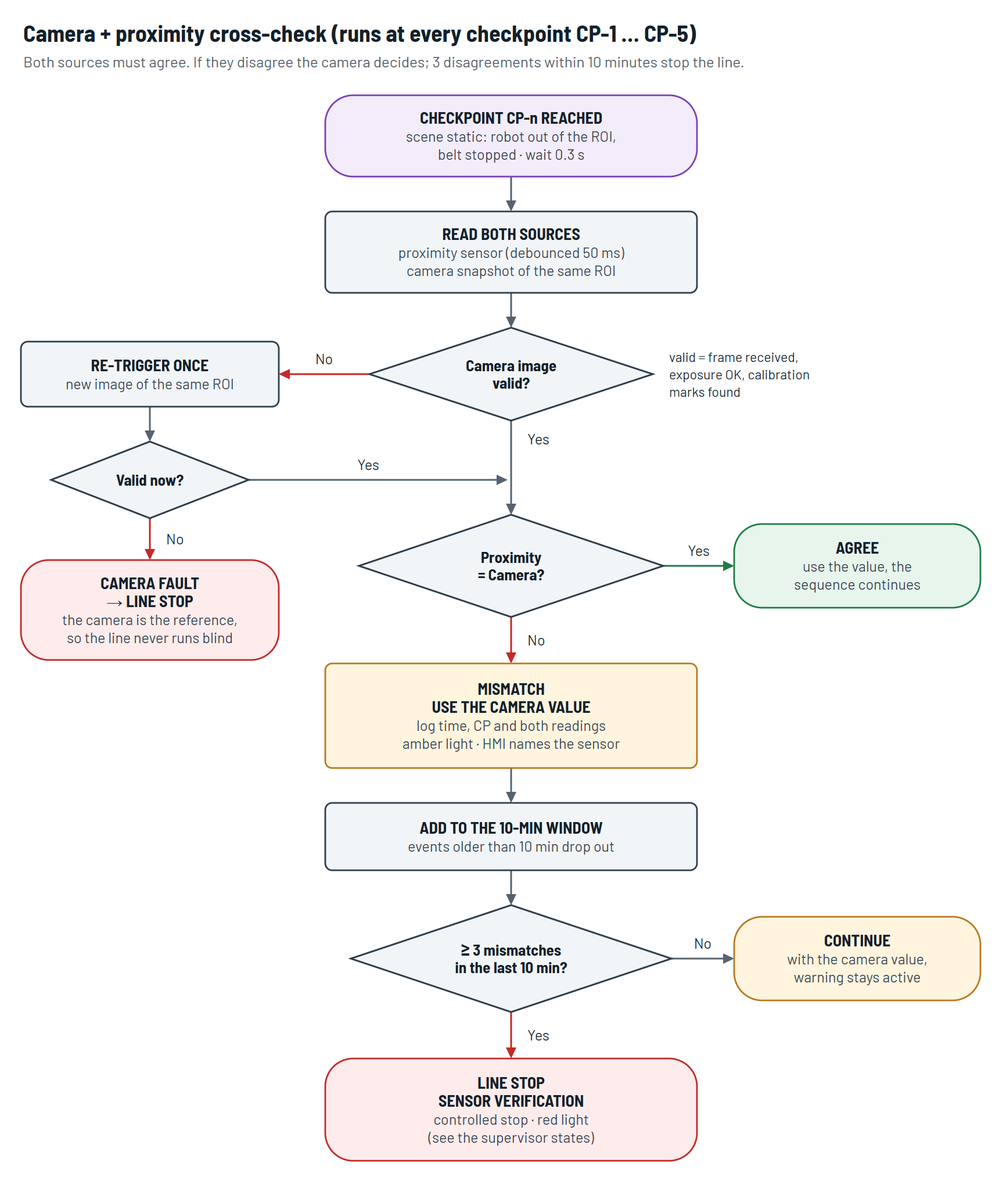
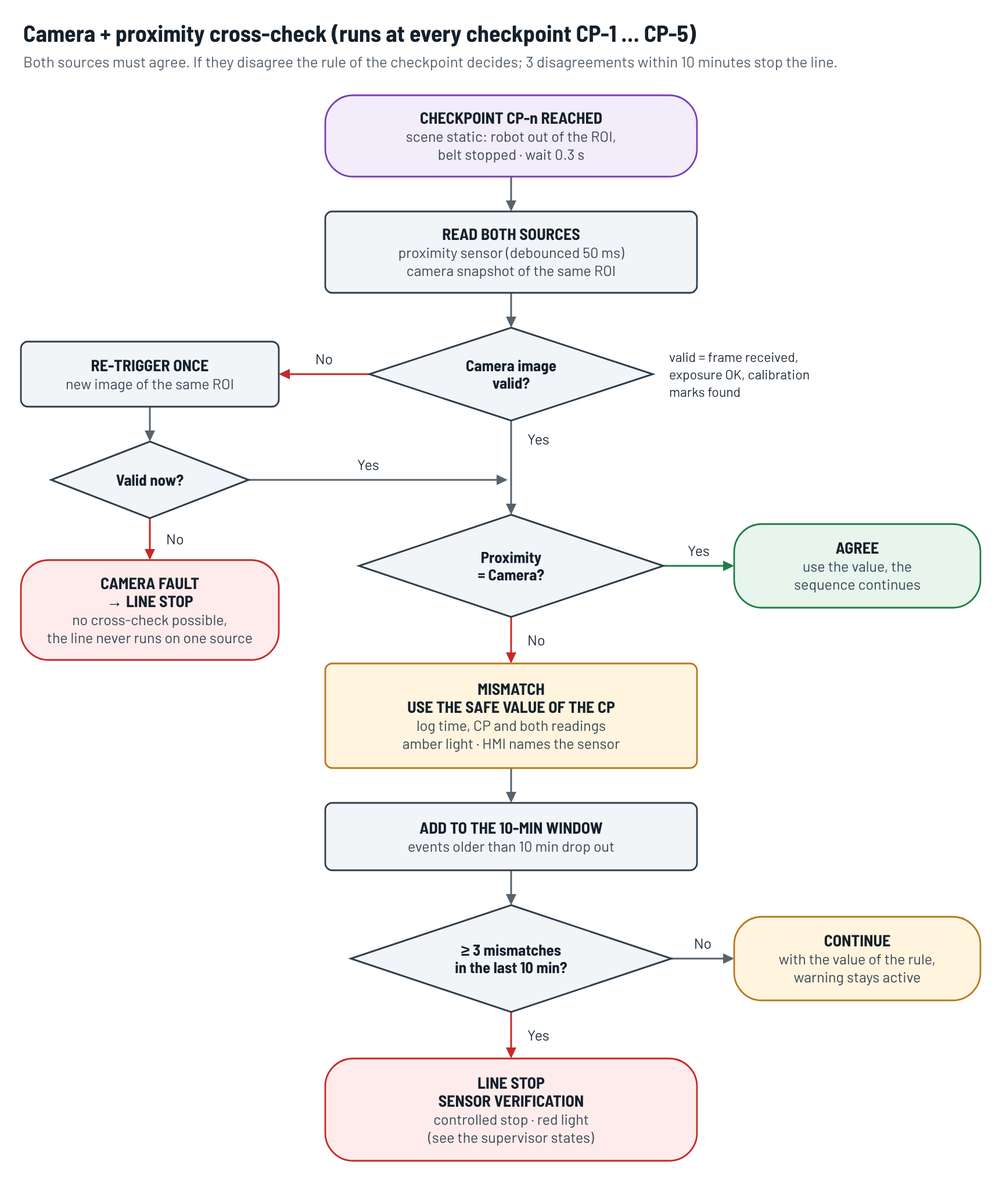
A2.1 decision applied: fusion rule per checkpoint and FAULT-recovery changes
Rules (author's decision, verification/camera_policy.md): CP-1 camera,
CP-2 absent, CP-3 absent, CP-4 absent, CP-5 present.

Recovery changes: a repeated state no longer repeats a part move that was
already done (B7 pre-check and place when GR-21B, E2 pick when !GR-51, E3
gauge load when GR-51); the conveyor start-up checks repeat until clear.

Texts that said 'the camera decides' (model, figures 3, 4, 7, simulator
HMI) now refer to the rule of the checkpoint. The run list of the
verifier is defined once (cell-verify.js RUNS) and gains camwrong and
sensor_camwrong. Verification results, .smv files, regression reference
and PROJECT_STATUS.md follow in the next commit.

Claude-Session: https://claude.ai/code/session_01S9s8cwibQEUxzo5TStFFTC

diff --git a/simulation/index.html b/simulation/index.html
@@ -405,7 +405,7 @@ footer { color: var(--muted); font-size: 12.5px; text-align: center; padding-top
           <div class="wl"><span>Mismatches in the last 10 min: <b id="winCount">0 / 3</b></span><span>3 within 10 min → line stop</span></div>
           <div class="wbar" id="wbar"></div>
         </div>
-        <p class="rule">The camera and the proximity sensor must agree. If they disagree the camera value is used and the mismatch is logged. <em>Glitch</em> = one false reading. <em>Fault</em> = dirty or misaligned sensor that keeps missing the part.</p>
+        <p class="rule">The camera and the proximity sensor must agree. If they disagree the rule of the checkpoint gives the value (CP-1: camera; CP-2, CP-3, CP-4: absent; CP-5: present) and the mismatch is logged. <em>Glitch</em> = one false reading. <em>Fault</em> = dirty or misaligned sensor that keeps missing the part.</p>
       </div>
     </div>
   </section>
@@ -517,13 +517,15 @@ footer { color: var(--muted); font-size: 12.5px; text-align: center; padding-top
   // ---------------------------------------------------------------- checkpoints
   // rule: the value used when the proximity sensor and the camera disagree (the mismatch is counted
   // in every case): camera | prox | present | absent (that value) | ask (line stop, the operator
-  // looks and the check is repeated). Being decided in step A2.1 (PROJECT_STATUS.md §15).
+  // looks and the check is repeated). Decided in step A2.1 (2026-10-28, verification/camera_policy.md):
+  // where a wrong answer can cause damage the safe value is used (CP-4 pallet absent, CP-5 nest
+  // occupied); elsewhere the cheapest safe rule.
   const CHECKPOINTS = [
     { id: 'CP-1', where: 'Input pallet', prox: 'PX-11', cam: 'CAM-1', roi: 'ROI-A', fact: 'Input pallet present and seated', rule: 'camera' },
-    { id: 'CP-2', where: 'Conveyor entry', prox: 'PE-41', cam: 'CAM-1', roi: 'ROI-B', fact: 'Part at conveyor entry', rule: 'camera' },
-    { id: 'CP-3', where: 'Conveyor exit', prox: 'PE-42', cam: 'CAM-2', roi: 'ROI-C', fact: 'Part at the end stop', rule: 'camera' },
-    { id: 'CP-4', where: 'Output pallet', prox: 'PX-52', cam: 'CAM-2', roi: 'ROI-D', fact: 'Output pallet present', rule: 'camera' },
-    { id: 'CP-5', where: 'Gauge nest', prox: 'PX-64', cam: 'CAM-2', roi: 'ROI-E', fact: 'Part in gauge nest', rule: 'camera' },
+    { id: 'CP-2', where: 'Conveyor entry', prox: 'PE-41', cam: 'CAM-1', roi: 'ROI-B', fact: 'Part at conveyor entry', rule: 'absent' },
+    { id: 'CP-3', where: 'Conveyor exit', prox: 'PE-42', cam: 'CAM-2', roi: 'ROI-C', fact: 'Part at the end stop', rule: 'absent' },
+    { id: 'CP-4', where: 'Output pallet', prox: 'PX-52', cam: 'CAM-2', roi: 'ROI-D', fact: 'Output pallet present', rule: 'absent' },
+    { id: 'CP-5', where: 'Gauge nest', prox: 'PX-64', cam: 'CAM-2', roi: 'ROI-E', fact: 'Part in gauge nest', rule: 'present' },
   ];
 
   // ---------------------------------------------------------------- sensors / signals
@@ -665,7 +667,8 @@ footer { color: var(--muted); font-size: 12.5px; text-align: center; padding-top
   // value ({TAG} sensor, [CP-n] checkpoint, *bold*). kind tells where the value comes from:
   //   sensor   a device signal; the simulation reads its plant, the verifier an abstract plant
   //   check    fused result of the last camera + proximity check made by the machine that reads it
-  //            (the camera decides; one machine never reads another machine's check)
+  //            (the rule of the checkpoint decides when they disagree; one machine never reads
+  //            another machine's check)
   //   var      PLC variable written by the steps of the machines
   //   input    operator or technician input (HMI button)
   //   derived  defined by an expression over other names (def)
@@ -839,7 +842,8 @@ footer { color: var(--muted); font-size: 12.5px; text-align: center; padding-top
   //   at a transition (then the pending state follows), while waiting (then the state is entered
   //   again), or at once after a camera fault (then the same check is repeated). F is entered when a
   //   confirmation is missing or a timer expires; after `exit` (the operator clears it) the state
-  //   is repeated.
+  //   is repeated. Therefore a step that moves a part carries a `when` on the gripper (GR-21B, GR-51)
+  //   so that repeating the state never repeats a place, pick or load that was already done (A2.1).
   //   view: diagram layout only (main column order, side states next to an anchor, or a grid).
   const HOLD_NOTE = [
     '*F FAULT* and *H HOLD* can be entered from any state. FAULT = a confirmation is missing or a timeout',
@@ -869,7 +873,7 @@ footer { color: var(--muted); font-size: 12.5px; text-align: center; padding-top
   const PICK_CONV = {
     name: 'PICK FROM CONVEYOR', short: 'pick',
     desc: ['Move to the {CAM-2} pick pose · grip ·', 'lift · retract · [CP-3] exit clear'],
-    do: [{ job: 'R2.pickConv' }, { check: 'CP-3', quick: true }, { set: { partPicked: true, pickAllowed: false }, when: 'GR-51 & !CP-3' }],
+    do: [{ job: 'R2.pickConv', when: '!GR-51' }, { check: 'CP-3', quick: true }, { set: { partPicked: true, pickAllowed: false }, when: 'GR-51 & !CP-3' }],
   };
 
   const MACHINES = {
@@ -911,8 +915,8 @@ footer { color: var(--muted); font-size: 12.5px; text-align: center; padding-top
         Q_B6: { choice: 'GR-21B', yes: 'B7', no: 'B1', yesText: 'finished part in B', noText: 'first cycle, B is empty' },
         B7: { name: 'PLACE ON CONVEYOR (B)', band: 'run', short: 'to belt',
           desc: ['Wait for {ENC-43} = 0 and [CP-2] entry clear', '· place the finished part · release'],
-          do: [{ job: 'R1.toConveyorB' }, { await: 'BELT.free' }, { check: 'CP-2', quick: true, confirm: '!CP-2' },
-            { job: 'R1.placeConvB' }, { check: 'CP-2' }, { set: { partPlaced: true }, when: 'CP-2' }],
+          do: [{ job: 'R1.toConveyorB' }, { await: 'BELT.free' }, { check: 'CP-2', quick: true, confirm: '!CP-2', when: 'GR-21B' },
+            { job: 'R1.placeConvB', when: 'GR-21B' }, { check: 'CP-2' }, { set: { partPlaced: true }, when: 'CP-2' }],
           next: [{ to: 'B1', when: 'CP-2 & R1.clearConv' }] },
         W1: W1('B1'),
       },
@@ -922,12 +926,12 @@ footer { color: var(--muted); font-size: 12.5px; text-align: center; padding-top
       slot: 'CONV', setup: 0,
       title: 'State diagram: Conveyor',
       sub: 'Robots pick or place at the belt only when it is stopped ({ENC-43} = 0); the belt starts only when both robots are clear.',
-      initial: { to: 'C1', do: [{ check: 'CP-2', quick: true }, { check: 'CP-3', quick: true }], when: '!CP-2 & !CP-3', text: 'Start-up:' },
+      initial: { to: 'C1', do: [{ check: 'CP-2', quick: true, until: '!CP-2' }, { check: 'CP-3', quick: true, until: '!CP-3' }], when: '!CP-2 & !CP-3', text: 'Start-up:' },
       hold: { desc: ['A running transport finishes at', 'the stop; no new transport starts'], exit: '!HOLD.req' },
       fault: { desc: ['Missing confirmation or a', 'transport timer expired (belt /', 'drive fault, jam, lost part)'], exit: 'HMI.clear' },
       note: [
         '*Stop logic:* stopping uses *OR* ({PE-42} or {CAM-2}) because stopping is the safe direction;',
-        'confirming the part for the pick uses the cross-check [CP-3] (both must agree, otherwise the camera decides).',
+        'confirming the part for the pick uses the cross-check [CP-3] (if they disagree: no part, the pick waits).',
       ],
       view: { main: ['C1', 'C2', 'C3', 'C4', 'C5'] },
       states: {
@@ -975,7 +979,7 @@ footer { color: var(--muted); font-size: 12.5px; text-align: center; padding-top
         E2: Object.assign({}, PICK_CONV, { next: [{ to: 'E3', when: 'GR-51 & !CP-3 & R2.clearConv' }] }),
         E3: { name: 'LOAD GAUGE', short: 'gauge',
           desc: ['Place in the corner nest · push against the', '3 datums (force control) · release · retract'],
-          do: [{ job: 'R2.loadGauge' }, { check: 'CP-5' }],
+          do: [{ job: 'R2.loadGauge', when: 'GR-51' }, { check: 'CP-5' }],
           next: [{ to: 'E4', when: 'CP-5 & R2.clearGauge' }] },
         E4: { name: 'MEASURE L, W, H', short: 'measure',
           desc: ['{LS-61}/{LS-62}/{LS-63}: average of 10 samples', 'size = 50.000 + (d master − d part)'],
@@ -1005,7 +1009,7 @@ footer { color: var(--muted); font-size: 12.5px; text-align: center; padding-top
       states: {
         X1: { name: 'NORMAL', kind: 'ok', wait: true, desc: ['All checkpoints agree', 'stack light {LT-01} green'],
           next: [{ to: 'X3', when: 'CAM_FAULT' }, { to: 'X2', when: 'mismatches>0' }] },
-        X2: { name: 'MISMATCH WARNING', kind: 'warn', wait: true, desc: ['1–2 mismatches in the last 10 min', 'camera value used · amber flashing'],
+        X2: { name: 'MISMATCH WARNING', kind: 'warn', wait: true, desc: ['1–2 mismatches in the last 10 min', 'rule of the CP used · amber flashing'],
           next: [{ to: 'X3', when: 'mismatches>=limit | CAM_FAULT' }, { to: 'X1', when: 'mismatches=0' }] },
         X3: { name: 'LINE STOP', kind: 'stop', wait: true, desc: ['Controlled stop: robots finish the step', 'and park, belt stops · red light'],
           log: 'LINE STOP: controlled stop · the CNC finishes its part, the robots finish the step and park, no new transport',
@@ -1870,7 +1874,7 @@ footer { color: var(--muted); font-size: 12.5px; text-align: center; padding-top
   // ------------------------------------------------------------------ Cross-check flowchart
   function flowCrossCheck(o) {
     const d = new Diagram(860, 0, 'Camera + proximity cross-check (runs at every checkpoint CP-1 … CP-5)',
-      'Both sources must agree. If they disagree the camera decides; 3 disagreements within 10 minutes stop the line.', o);
+      'Both sources must agree. If they disagree the rule of the checkpoint decides; 3 disagreements within 10 minutes stop the line.', o);
     const t = d.top;
     const LX = 18, LW = 222, LC = LX + LW / 2;
     const MX = 280, MW = 320, MC = MX + MW / 2;
@@ -1885,20 +1889,20 @@ footer { color: var(--muted); font-size: 12.5px; text-align: center; padding-top
     d.arrow([[q1.left, q1.cy], [r1.right, q1.cy]], ['No'], { at: [(q1.left + r1.right) / 2, q1.cy - 13], kind: 'fault' });
     const q1b = d.choice('Q1B', LC, r1.bottom + 30 + 33, 170, 66, ['Valid now?']);
     d.arrow([[LC, r1.bottom], [LC, q1b.top]]);
-    const cf = d.node('CF', LX, q1b.bottom + 36, LW, 86, ['CAMERA FAULT', '→ LINE STOP', 'the camera is the reference,', 'so the line never runs blind'], { shape: 'term', kind: 'stop', titleLines: 2 });
+    const cf = d.node('CF', LX, q1b.bottom + 36, LW, 86, ['CAMERA FAULT', '→ LINE STOP', 'no cross-check possible,', 'the line never runs on one source'], { shape: 'term', kind: 'stop', titleLines: 2 });
     d.arrow([[LC, q1b.bottom], [LC, cf.top]], ['No'], { at: [LC + 14, (q1b.bottom + cf.top) / 2], anchor: 'start', kind: 'fault' });
     const q2 = d.choice('Q2', MC, q1b.cy + 30 + 44, 262, 88, ['Proximity', '= Camera?']);
     d.arrow([[MC, q1.bottom], [MC, q2.top]], ['Yes'], { at: [MC + 14, q1.bottom + 16], anchor: 'start' });
     d.arrow([[q1b.right, q1b.cy], [MC - 3, q1b.cy]], ['Yes'], { at: [(q1b.right + MC) / 2 - 10, q1b.cy - 13] });
     const ag = d.node('AG', RX, q2.cy - 36, RW, 72, ['AGREE', 'use the value, the', 'sequence continues'], { shape: 'term', kind: 'ok' });
     d.arrow([[q2.right, q2.cy], [ag.left, q2.cy]], ['Yes'], { at: [(q2.right + ag.left) / 2, q2.cy - 13], kind: 'ok' });
-    const mm = d.node('MM', MX, q2.bottom + 40, MW, 90, ['MISMATCH', 'USE THE CAMERA VALUE', 'log time, CP and both readings', 'amber light · HMI names the sensor'], { kind: 'warn', titleLines: 2 });
+    const mm = d.node('MM', MX, q2.bottom + 40, MW, 90, ['MISMATCH', 'USE THE SAFE VALUE OF THE CP', 'log time, CP and both readings', 'amber light · HMI names the sensor'], { kind: 'warn', titleLines: 2 });
     d.arrow([[MC, q2.bottom], [MC, mm.top]], ['No'], { at: [MC + 14, (q2.bottom + mm.top) / 2], anchor: 'start', kind: 'fault' });
     const wn = d.node('WN', MX, mm.bottom + 30, MW, 58, ['ADD TO THE 10-MIN WINDOW', 'events older than 10 min drop out']);
     d.arrow([[MC, mm.bottom], [MC, wn.top]]);
     const q3 = d.choice('Q3', MC, wn.bottom + 30 + 46, 276, 92, ['≥ 3 mismatches', 'in the last 10 min?']);
     d.arrow([[MC, wn.bottom], [MC, q3.top]]);
-    const cn = d.node('CN', RX, q3.cy - 36, RW, 72, ['CONTINUE', 'with the camera value,', 'warning stays active'], { shape: 'term', kind: 'warn' });
+    const cn = d.node('CN', RX, q3.cy - 36, RW, 72, ['CONTINUE', 'with the value of the rule,', 'warning stays active'], { shape: 'term', kind: 'warn' });
     d.arrow([[q3.right, q3.cy], [cn.left, q3.cy]], ['No'], { at: [(q3.right + cn.left) / 2, q3.cy - 13] });
     const ls = d.node('LS', MX, q3.bottom + 40, MW, 88, ['LINE STOP', 'SENSOR VERIFICATION', 'controlled stop · red light', '(see the supervisor states)'], { shape: 'term', kind: 'stop', titleLines: 2 });
     d.arrow([[MC, q3.bottom], [MC, ls.top]], ['Yes'], { at: [MC + 14, (q3.bottom + ls.top) / 2], anchor: 'start', kind: 'fault' });
@@ -3293,7 +3297,7 @@ footer { color: var(--muted); font-size: 12.5px; text-align: center; padding-top
       key = 'qh'; title = 'Quality hold · 2 NOK parts in a row'; text = 'The CNC finished its part and will not start a new cycle. Check tool wear and work offsets, then release the hold.'; cls = 'warn';
       acts = [['Tool and offsets checked · release', 'qh', 'warn']];
     } else if (SUP.events.length) {
-      key = 'mm:' + SUP.events.length; title = `Sensor mismatch warning · ${SUP.events.length} of ${RU.mismatchLimit} in 10 min`; text = `Disagreements: ${windowSummary()}. The camera value is used and the line keeps running. A ${RU.mismatchLimit}rd mismatch within 10 minutes stops the line.`; cls = 'warn';
+      key = 'mm:' + SUP.events.length; title = `Sensor mismatch warning · ${SUP.events.length} of ${RU.mismatchLimit} in 10 min`; text = `Disagreements: ${windowSummary()}. The rule of each checkpoint gives the value used and the line keeps running. A ${RU.mismatchLimit}rd mismatch within 10 minutes stops the line.`; cls = 'warn';
     } else {
       const s = activeHmi('swap') || activeHmi('load');
       if (s) {

diff --git a/source/src/cell-model.js b/source/src/cell-model.js
@@ -53,13 +53,15 @@
   // ---------------------------------------------------------------- checkpoints
   // rule: the value used when the proximity sensor and the camera disagree (the mismatch is counted
   // in every case): camera | prox | present | absent (that value) | ask (line stop, the operator
-  // looks and the check is repeated). Being decided in step A2.1 (PROJECT_STATUS.md §15).
+  // looks and the check is repeated). Decided in step A2.1 (2026-10-28, verification/camera_policy.md):
+  // where a wrong answer can cause damage the safe value is used (CP-4 pallet absent, CP-5 nest
+  // occupied); elsewhere the cheapest safe rule.
   const CHECKPOINTS = [
     { id: 'CP-1', where: 'Input pallet', prox: 'PX-11', cam: 'CAM-1', roi: 'ROI-A', fact: 'Input pallet present and seated', rule: 'camera' },
-    { id: 'CP-2', where: 'Conveyor entry', prox: 'PE-41', cam: 'CAM-1', roi: 'ROI-B', fact: 'Part at conveyor entry', rule: 'camera' },
-    { id: 'CP-3', where: 'Conveyor exit', prox: 'PE-42', cam: 'CAM-2', roi: 'ROI-C', fact: 'Part at the end stop', rule: 'camera' },
-    { id: 'CP-4', where: 'Output pallet', prox: 'PX-52', cam: 'CAM-2', roi: 'ROI-D', fact: 'Output pallet present', rule: 'camera' },
-    { id: 'CP-5', where: 'Gauge nest', prox: 'PX-64', cam: 'CAM-2', roi: 'ROI-E', fact: 'Part in gauge nest', rule: 'camera' },
+    { id: 'CP-2', where: 'Conveyor entry', prox: 'PE-41', cam: 'CAM-1', roi: 'ROI-B', fact: 'Part at conveyor entry', rule: 'absent' },
+    { id: 'CP-3', where: 'Conveyor exit', prox: 'PE-42', cam: 'CAM-2', roi: 'ROI-C', fact: 'Part at the end stop', rule: 'absent' },
+    { id: 'CP-4', where: 'Output pallet', prox: 'PX-52', cam: 'CAM-2', roi: 'ROI-D', fact: 'Output pallet present', rule: 'absent' },
+    { id: 'CP-5', where: 'Gauge nest', prox: 'PX-64', cam: 'CAM-2', roi: 'ROI-E', fact: 'Part in gauge nest', rule: 'present' },
   ];
 
   // ---------------------------------------------------------------- sensors / signals
@@ -201,7 +203,8 @@
   // value ({TAG} sensor, [CP-n] checkpoint, *bold*). kind tells where the value comes from:
   //   sensor   a device signal; the simulation reads its plant, the verifier an abstract plant
   //   check    fused result of the last camera + proximity check made by the machine that reads it
-  //            (the camera decides; one machine never reads another machine's check)
+  //            (the rule of the checkpoint decides when they disagree; one machine never reads
+  //            another machine's check)
   //   var      PLC variable written by the steps of the machines
   //   input    operator or technician input (HMI button)
   //   derived  defined by an expression over other names (def)
@@ -375,7 +378,8 @@
   //   at a transition (then the pending state follows), while waiting (then the state is entered
   //   again), or at once after a camera fault (then the same check is repeated). F is entered when a
   //   confirmation is missing or a timer expires; after `exit` (the operator clears it) the state
-  //   is repeated.
+  //   is repeated. Therefore a step that moves a part carries a `when` on the gripper (GR-21B, GR-51)
+  //   so that repeating the state never repeats a place, pick or load that was already done (A2.1).
   //   view: diagram layout only (main column order, side states next to an anchor, or a grid).
   const HOLD_NOTE = [
     '*F FAULT* and *H HOLD* can be entered from any state. FAULT = a confirmation is missing or a timeout',
@@ -405,7 +409,7 @@
   const PICK_CONV = {
     name: 'PICK FROM CONVEYOR', short: 'pick',
     desc: ['Move to the {CAM-2} pick pose · grip ·', 'lift · retract · [CP-3] exit clear'],
-    do: [{ job: 'R2.pickConv' }, { check: 'CP-3', quick: true }, { set: { partPicked: true, pickAllowed: false }, when: 'GR-51 & !CP-3' }],
+    do: [{ job: 'R2.pickConv', when: '!GR-51' }, { check: 'CP-3', quick: true }, { set: { partPicked: true, pickAllowed: false }, when: 'GR-51 & !CP-3' }],
   };
 
   const MACHINES = {
@@ -447,8 +451,8 @@
         Q_B6: { choice: 'GR-21B', yes: 'B7', no: 'B1', yesText: 'finished part in B', noText: 'first cycle, B is empty' },
         B7: { name: 'PLACE ON CONVEYOR (B)', band: 'run', short: 'to belt',
           desc: ['Wait for {ENC-43} = 0 and [CP-2] entry clear', '· place the finished part · release'],
-          do: [{ job: 'R1.toConveyorB' }, { await: 'BELT.free' }, { check: 'CP-2', quick: true, confirm: '!CP-2' },
-            { job: 'R1.placeConvB' }, { check: 'CP-2' }, { set: { partPlaced: true }, when: 'CP-2' }],
+          do: [{ job: 'R1.toConveyorB' }, { await: 'BELT.free' }, { check: 'CP-2', quick: true, confirm: '!CP-2', when: 'GR-21B' },
+            { job: 'R1.placeConvB', when: 'GR-21B' }, { check: 'CP-2' }, { set: { partPlaced: true }, when: 'CP-2' }],
           next: [{ to: 'B1', when: 'CP-2 & R1.clearConv' }] },
         W1: W1('B1'),
       },
@@ -458,12 +462,12 @@
       slot: 'CONV', setup: 0,
       title: 'State diagram: Conveyor',
       sub: 'Robots pick or place at the belt only when it is stopped ({ENC-43} = 0); the belt starts only when both robots are clear.',
-      initial: { to: 'C1', do: [{ check: 'CP-2', quick: true }, { check: 'CP-3', quick: true }], when: '!CP-2 & !CP-3', text: 'Start-up:' },
+      initial: { to: 'C1', do: [{ check: 'CP-2', quick: true, until: '!CP-2' }, { check: 'CP-3', quick: true, until: '!CP-3' }], when: '!CP-2 & !CP-3', text: 'Start-up:' },
       hold: { desc: ['A running transport finishes at', 'the stop; no new transport starts'], exit: '!HOLD.req' },
       fault: { desc: ['Missing confirmation or a', 'transport timer expired (belt /', 'drive fault, jam, lost part)'], exit: 'HMI.clear' },
       note: [
         '*Stop logic:* stopping uses *OR* ({PE-42} or {CAM-2}) because stopping is the safe direction;',
-        'confirming the part for the pick uses the cross-check [CP-3] (both must agree, otherwise the camera decides).',
+        'confirming the part for the pick uses the cross-check [CP-3] (if they disagree: no part, the pick waits).',
       ],
       view: { main: ['C1', 'C2', 'C3', 'C4', 'C5'] },
       states: {
@@ -511,7 +515,7 @@
         E2: Object.assign({}, PICK_CONV, { next: [{ to: 'E3', when: 'GR-51 & !CP-3 & R2.clearConv' }] }),
         E3: { name: 'LOAD GAUGE', short: 'gauge',
           desc: ['Place in the corner nest · push against the', '3 datums (force control) · release · retract'],
-          do: [{ job: 'R2.loadGauge' }, { check: 'CP-5' }],
+          do: [{ job: 'R2.loadGauge', when: 'GR-51' }, { check: 'CP-5' }],
           next: [{ to: 'E4', when: 'CP-5 & R2.clearGauge' }] },
         E4: { name: 'MEASURE L, W, H', short: 'measure',
           desc: ['{LS-61}/{LS-62}/{LS-63}: average of 10 samples', 'size = 50.000 + (d master − d part)'],
@@ -541,7 +545,7 @@
       states: {
         X1: { name: 'NORMAL', kind: 'ok', wait: true, desc: ['All checkpoints agree', 'stack light {LT-01} green'],
           next: [{ to: 'X3', when: 'CAM_FAULT' }, { to: 'X2', when: 'mismatches>0' }] },
-        X2: { name: 'MISMATCH WARNING', kind: 'warn', wait: true, desc: ['1–2 mismatches in the last 10 min', 'camera value used · amber flashing'],
+        X2: { name: 'MISMATCH WARNING', kind: 'warn', wait: true, desc: ['1–2 mismatches in the last 10 min', 'rule of the CP used · amber flashing'],
           next: [{ to: 'X3', when: 'mismatches>=limit | CAM_FAULT' }, { to: 'X1', when: 'mismatches=0' }] },
         X3: { name: 'LINE STOP', kind: 'stop', wait: true, desc: ['Controlled stop: robots finish the step', 'and park, belt stops · red light'],
           log: 'LINE STOP: controlled stop · the CNC finishes its part, the robots finish the step and park, no new transport',

diff --git a/source/src/cell-diagrams.js b/source/src/cell-diagrams.js
@@ -568,7 +568,7 @@
   // ------------------------------------------------------------------ Cross-check flowchart
   function flowCrossCheck(o) {
     const d = new Diagram(860, 0, 'Camera + proximity cross-check (runs at every checkpoint CP-1 … CP-5)',
-      'Both sources must agree. If they disagree the camera decides; 3 disagreements within 10 minutes stop the line.', o);
+      'Both sources must agree. If they disagree the rule of the checkpoint decides; 3 disagreements within 10 minutes stop the line.', o);
     const t = d.top;
     const LX = 18, LW = 222, LC = LX + LW / 2;
     const MX = 280, MW = 320, MC = MX + MW / 2;
@@ -583,20 +583,20 @@
     d.arrow([[q1.left, q1.cy], [r1.right, q1.cy]], ['No'], { at: [(q1.left + r1.right) / 2, q1.cy - 13], kind: 'fault' });
     const q1b = d.choice('Q1B', LC, r1.bottom + 30 + 33, 170, 66, ['Valid now?']);
     d.arrow([[LC, r1.bottom], [LC, q1b.top]]);
-    const cf = d.node('CF', LX, q1b.bottom + 36, LW, 86, ['CAMERA FAULT', '→ LINE STOP', 'the camera is the reference,', 'so the line never runs blind'], { shape: 'term', kind: 'stop', titleLines: 2 });
+    const cf = d.node('CF', LX, q1b.bottom + 36, LW, 86, ['CAMERA FAULT', '→ LINE STOP', 'no cross-check possible,', 'the line never runs on one source'], { shape: 'term', kind: 'stop', titleLines: 2 });
     d.arrow([[LC, q1b.bottom], [LC, cf.top]], ['No'], { at: [LC + 14, (q1b.bottom + cf.top) / 2], anchor: 'start', kind: 'fault' });
     const q2 = d.choice('Q2', MC, q1b.cy + 30 + 44, 262, 88, ['Proximity', '= Camera?']);
     d.arrow([[MC, q1.bottom], [MC, q2.top]], ['Yes'], { at: [MC + 14, q1.bottom + 16], anchor: 'start' });
     d.arrow([[q1b.right, q1b.cy], [MC - 3, q1b.cy]], ['Yes'], { at: [(q1b.right + MC) / 2 - 10, q1b.cy - 13] });
     const ag = d.node('AG', RX, q2.cy - 36, RW, 72, ['AGREE', 'use the value, the', 'sequence continues'], { shape: 'term', kind: 'ok' });
     d.arrow([[q2.right, q2.cy], [ag.left, q2.cy]], ['Yes'], { at: [(q2.right + ag.left) / 2, q2.cy - 13], kind: 'ok' });
-    const mm = d.node('MM', MX, q2.bottom + 40, MW, 90, ['MISMATCH', 'USE THE CAMERA VALUE', 'log time, CP and both readings', 'amber light · HMI names the sensor'], { kind: 'warn', titleLines: 2 });
+    const mm = d.node('MM', MX, q2.bottom + 40, MW, 90, ['MISMATCH', 'USE THE VALUE OF THE CP RULE', 'log time, CP and both readings', 'amber light · HMI names the sensor'], { kind: 'warn', titleLines: 2 });
     d.arrow([[MC, q2.bottom], [MC, mm.top]], ['No'], { at: [MC + 14, (q2.bottom + mm.top) / 2], anchor: 'start', kind: 'fault' });
     const wn = d.node('WN', MX, mm.bottom + 30, MW, 58, ['ADD TO THE 10-MIN WINDOW', 'events older than 10 min drop out']);
     d.arrow([[MC, mm.bottom], [MC, wn.top]]);
     const q3 = d.choice('Q3', MC, wn.bottom + 30 + 46, 276, 92, ['≥ 3 mismatches', 'in the last 10 min?']);
     d.arrow([[MC, wn.bottom], [MC, q3.top]]);
-    const cn = d.node('CN', RX, q3.cy - 36, RW, 72, ['CONTINUE', 'with the camera value,', 'warning stays active'], { shape: 'term', kind: 'warn' });
+    const cn = d.node('CN', RX, q3.cy - 36, RW, 72, ['CONTINUE', 'with the value of the rule,', 'warning stays active'], { shape: 'term', kind: 'warn' });
     d.arrow([[q3.right, q3.cy], [cn.left, q3.cy]], ['No'], { at: [(q3.right + cn.left) / 2, q3.cy - 13] });
     const ls = d.node('LS', MX, q3.bottom + 40, MW, 88, ['LINE STOP', 'SENSOR VERIFICATION', 'controlled stop · red light', '(see the supervisor states)'], { shape: 'term', kind: 'stop', titleLines: 2 });
     d.arrow([[MC, q3.bottom], [MC, ls.top]], ['Yes'], { at: [MC + 14, (q3.bottom + ls.top) / 2], anchor: 'start', kind: 'fault' });

diff --git a/source/verify.js b/source/verify.js
@@ -19,7 +19,7 @@ const V = require('./src/cell-verify.js');
 const OUT = process.argv[2] || path.join(__dirname, 'out', 'verification');
 fs.mkdirSync(OUT, { recursive: true });
 const RUNS = [];
-['none', 'sensor', 'process'].forEach((faults) => RUNS.push({ setup: 2, faults }));   // Setup 2 only (Setup 1: branch legacy-setup1-setup2)
+Object.keys(V.RUNS).forEach((faults) => RUNS.push({ setup: 2, faults }));   // Setup 2 only (Setup 1: branch legacy-setup1-setup2)
 const ONLY = process.env.ONLY ? process.env.ONLY.split(',') : null;
 const { REPORT_ONLY, NUSMV_ONLY } = process.env;
 const selected = (tag) => !ONLY || ONLY.includes(tag);
@@ -33,7 +33,7 @@ if (lint.length) { console.error('model lint failed:\n' + lint.join('\n')); proc
 if (!REPORT_ONLY && !NUSMV_ONLY) for (const run of RUNS) {
   const tag = `setup${run.setup}_${run.faults}`;
   if (!selected(tag)) continue;
-  const ir = V.build(run.setup, { faults: run.faults === 'none' ? false : run.faults });
+  const ir = V.build(run.setup, { faults: V.RUNS[run.faults] });
   const smvFile = `cell_${tag}.smv`;
   fs.writeFileSync(path.join(OUT, smvFile), V.toSmv(ir));
   process.stdout.write(`${tag}: ${ir.vars.length} variables, ${ir.cmds.length} commands ... `);
@@ -145,7 +145,9 @@ function compare(x) {
 
   // ---- report
   const L = [];
-  const FAULTS = { none: 'nominal operation', sensor: 'camera / proximity mismatches and camera faults', process: 'missed picks, confirmation timeouts, transport timers' };
+  const FAULTS = { none: 'nominal operation', sensor: 'camera / proximity mismatches and camera faults', process: 'missed picks, confirmation timeouts, transport timers',
+    camwrong: 'camera wrong with a valid image (false positive, false negative, stale image)',
+    sensor_camwrong: 'all sensor faults (proximity wrong, camera wrong, invalid images) with confirmation timeouts' };
   const faultText = (x) => FAULTS[x.faults] + (x.faults === 'process' && x.setup === 2 ? ', undersized parts' : '');
   const num = (n) => n.toLocaleString('en-US');
   const smvNum = (n) => (n >= 1e6 ? n.toExponential(5).replace(/\.?0+e/, 'e').replace(/e\+(\d)$/, 'e+0$1') : num(n));   // as NuSMV prints it

diff --git a/source/sim-src/app.js b/source/sim-src/app.js
@@ -925,7 +925,7 @@
       key = 'qh'; title = 'Quality hold · 2 NOK parts in a row'; text = 'The CNC finished its part and will not start a new cycle. Check tool wear and work offsets, then release the hold.'; cls = 'warn';
       acts = [['Tool and offsets checked · release', 'qh', 'warn']];
     } else if (SUP.events.length) {
-      key = 'mm:' + SUP.events.length; title = `Sensor mismatch warning · ${SUP.events.length} of ${RU.mismatchLimit} in 10 min`; text = `Disagreements: ${windowSummary()}. The camera value is used and the line keeps running. A ${RU.mismatchLimit}rd mismatch within 10 minutes stops the line.`; cls = 'warn';
+      key = 'mm:' + SUP.events.length; title = `Sensor mismatch warning · ${SUP.events.length} of ${RU.mismatchLimit} in 10 min`; text = `Disagreements: ${windowSummary()}. The rule of each checkpoint gives the value used and the line keeps running. A ${RU.mismatchLimit}rd mismatch within 10 minutes stops the line.`; cls = 'warn';
     } else {
       const s = activeHmi('swap') || activeHmi('load');
       if (s) {

diff --git a/source/sim-src/body.html b/source/sim-src/body.html
@@ -55,7 +55,7 @@
           <div class="wl"><span>Mismatches in the last 10 min: <b id="winCount">0 / 3</b></span><span>3 within 10 min → line stop</span></div>
           <div class="wbar" id="wbar"></div>
         </div>
-        <p class="rule">The camera and the proximity sensor must agree. If they disagree the camera value is used and the mismatch is logged. <em>Glitch</em> = one false reading. <em>Fault</em> = dirty or misaligned sensor that keeps missing the part.</p>
+        <p class="rule">The camera and the proximity sensor must agree. If they disagree the rule of the checkpoint gives the value (CP-1: camera; CP-2, CP-3, CP-4: absent; CP-5: present) and the mismatch is logged. <em>Glitch</em> = one false reading. <em>Fault</em> = dirty or misaligned sensor that keeps missing the part.</p>
       </div>
     </div>
   </section>

diff --git a/source/src/cell-verify.js b/source/src/cell-verify.js
@@ -744,7 +744,12 @@
     return L.join('\n') + '\n';
   }
 
-  const API = { build, check, expected, toSmv };
+  // The verification runs (verify.js, build_all.js, regress.js): name -> fault classes of build().
+  // camwrong = camera wrong with a valid image alone; sensor_camwrong = every sensor fault together,
+  // with the confirmation timeouts that recover them.
+  const RUNS = { none: false, sensor: 'sensor', process: 'process', camwrong: 'camwrong', sensor_camwrong: ['sensor', 'camwrong', 'timeout'] };
+
+  const API = { build, check, expected, toSmv, RUNS };
   root.CellVerify = API;
   if (typeof module !== 'undefined' && module.exports) module.exports = API;
 })(typeof window !== 'undefined' ? window : globalThis);

diff --git a/source/build_all.js b/source/build_all.js
@@ -29,8 +29,8 @@ const expected = [];
 FIGS.forEach(([name, fn]) => expected.push([path.join(DIAG, name + '.svg'), fn()]));
 expected.push([SIM, buildSim().index]);
 expected.push([JSON_OUT, modelJson()]);
-['none', 'sensor', 'process'].forEach((f) => {
-  const ir = V.build(2, { faults: f === 'none' ? false : f });
+Object.keys(V.RUNS).forEach((f) => {
+  const ir = V.build(2, { faults: V.RUNS[f] });
   expected.push([path.join(ROOT, 'verification', `cell_setup2_${f}.smv`), V.toSmv(ir)]);
 });
 const known = new Set(FIGS.map(([n]) => n));

diff --git a/source/regress.js b/source/regress.js
@@ -28,8 +28,8 @@ async function collect() {
   }));
   // verification models
   out.smv = {};
-  ['none', 'sensor', 'process'].forEach((f) => {
-    const ir = V.build(2, { faults: f === 'none' ? false : f });
+  Object.keys(V.RUNS).forEach((f) => {
+    const ir = V.build(2, { faults: V.RUNS[f] });
     out.smv[f] = { vars: ir.vars.length, commands: ir.cmds.length, sha256: sha(V.toSmv(ir)) };
   });
   // figures
